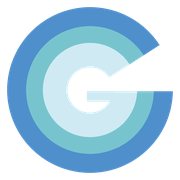
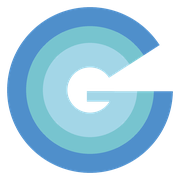
Inner layer of the G (ring and bar) is #A3D6E7
Also starts a new Pages run: the deploy of e679d0a failed with a GitHub server error (500).

Changed region(s): [[0.2222, 0.2222, 0.7778, 0.7778]]

diff --git a/app/components/Logo.tsx b/app/components/Logo.tsx
@@ -13,9 +13,9 @@ export function LogoMark({ className }: { className?: string }) {
       <g fill="none" mask="url(#gcut)">
         <circle cx="24" cy="24" r="21.24" stroke="#4f8fcb" strokeWidth="5.52" />
         <circle cx="24" cy="24" r="16.05" stroke="#77c4cf" strokeWidth="4.86" />
-        <circle cx="24" cy="24" r="10.1" stroke="#cfeaf3" strokeWidth="7.1" />
+        <circle cx="24" cy="24" r="10.1" stroke="#a3d6e7" strokeWidth="7.1" />
       </g>
-      <rect x="23.1" y="24.33" width="8" height="3.02" fill="#cfeaf3" />
+      <rect x="23.1" y="24.33" width="8" height="3.02" fill="#a3d6e7" />
     </svg>
   );
 }

diff --git a/tools/make_icons.py b/tools/make_icons.py
@@ -16,8 +16,8 @@ from pathlib import Path
 from PIL import Image, ImageDraw, ImageFilter, ImageFont
 
 ROOT = Path(__file__).resolve().parent.parent
-RINGS = [(21.24, 5.52, "#4f8fcb"), (16.05, 4.86, "#77c4cf"), (10.1, 7.1, "#cfeaf3")]  # radius, thickness, colour (viewBox 48)
-BAR = (23.1, 24.33, 8.0, 3.02, "#cfeaf3")  # the same colour as the inner ring, so the bar of the G is one piece with it
+RINGS = [(21.24, 5.52, "#4f8fcb"), (16.05, 4.86, "#77c4cf"), (10.1, 7.1, "#a3d6e7")]  # radius, thickness, colour (viewBox 48)
+BAR = (23.1, 24.33, 8.0, 3.02, "#a3d6e7")  # the same colour as the inner ring, so the bar of the G is one piece with it
 CUT = [(24, 24), (48, 8.5), (48, 24.33), (24, 24.33)]  # the part of the rings that is cut away
 PAGE = "#0a1b22"  # the dark page colour behind the icons
 SS = 8  # supersampling, for smooth edges
